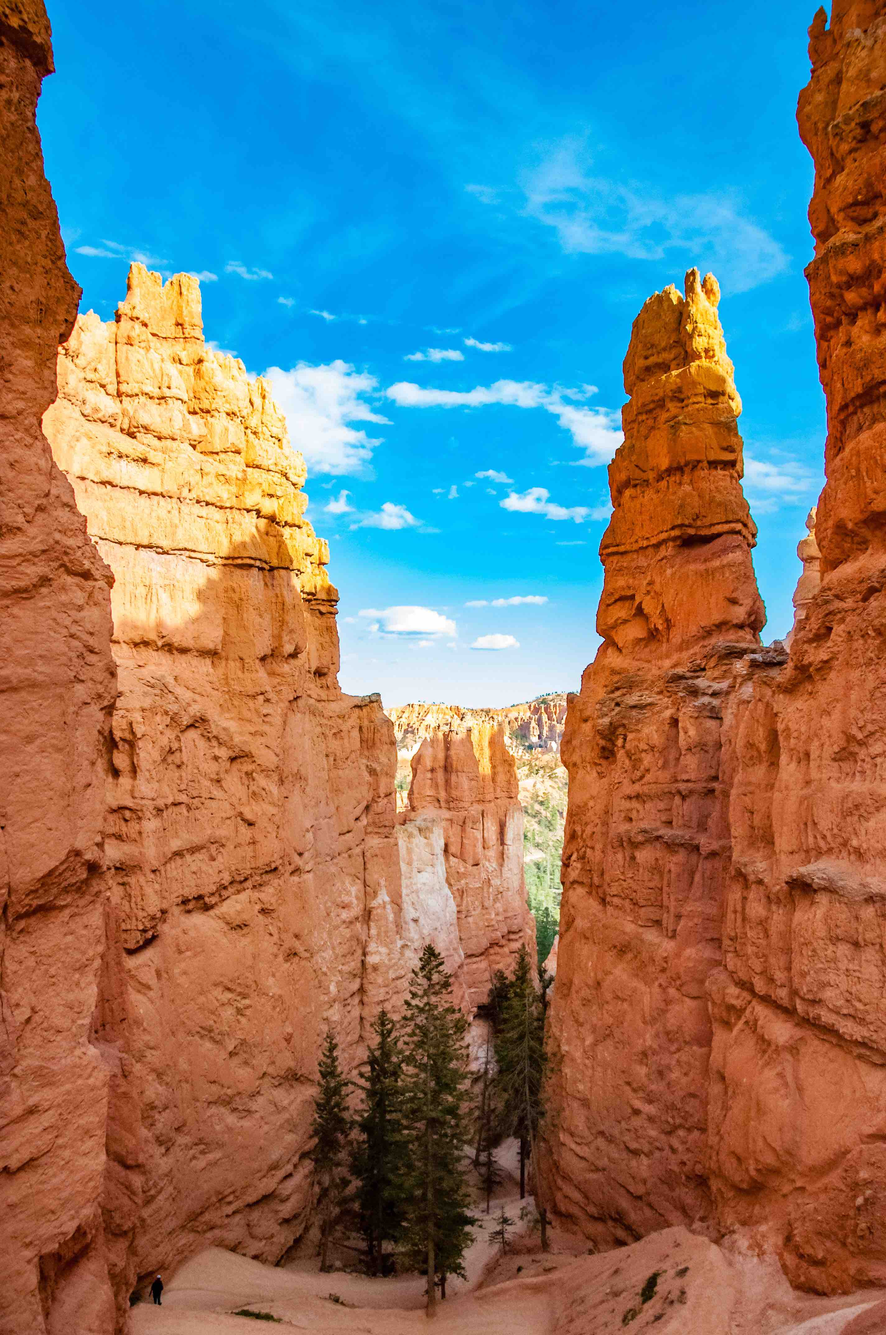
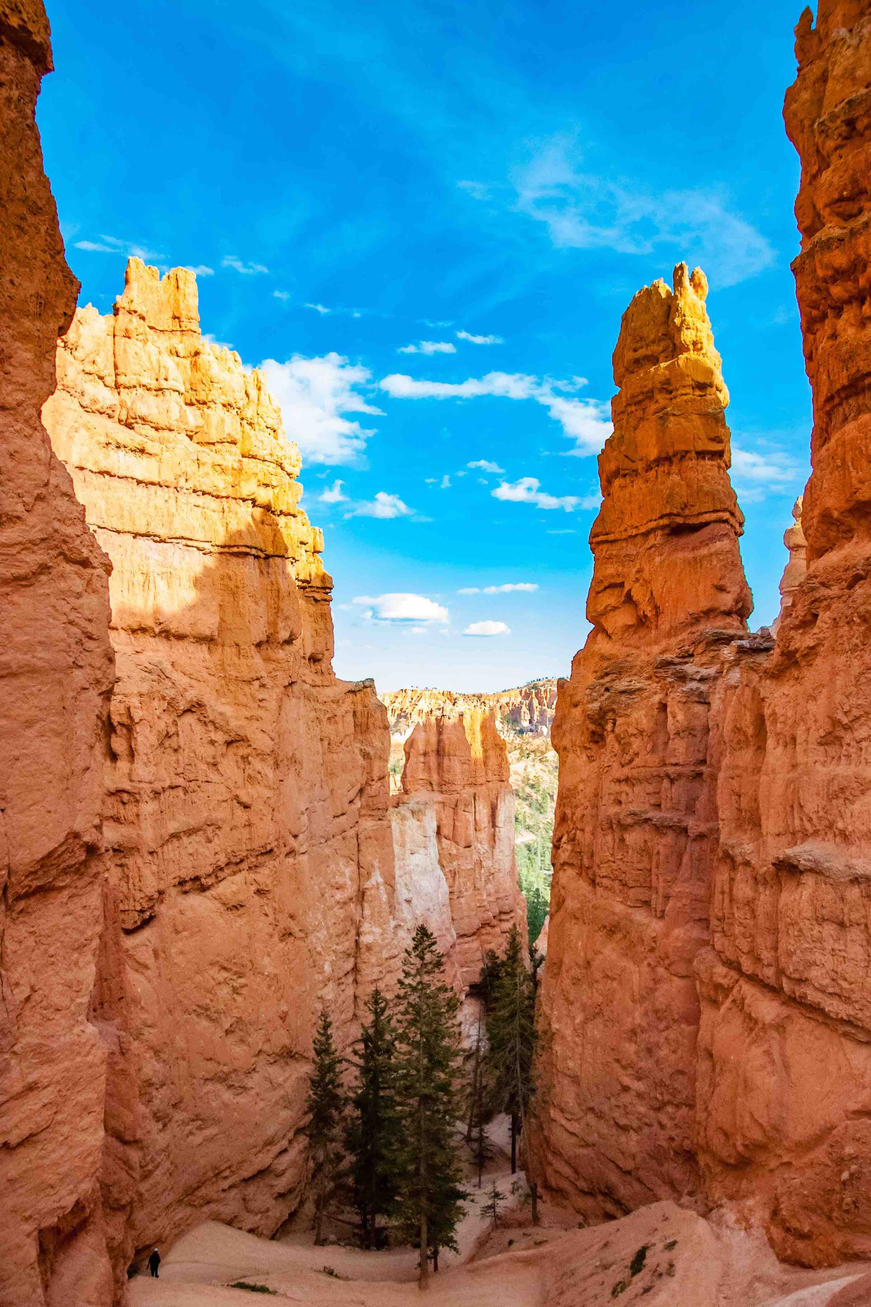
resized bottom images to equalsize

diff --git a/Page1/page1.html b/Page1/page1.html
@@ -11,11 +11,12 @@
    <title>Photo collection</title>
 
    <link rel="stylesheet" href="https://maxcdn.bootstrapcdn.com/bootstrap/3.3.7/css/bootstrap.min.css">
+   <link rel="stylesheet" type="text/css" href="css/style.css">
  </head>
 
  <body>
 
-<div class="page-header">
+<div class="header">
   <h1>Photo Collection</h1>
 </div>
 
@@ -166,25 +167,38 @@
      <img src="img/28-Moose.jpg" alt="Moose" class="img-responsive">
      <p>Moose, Grand Canyon</p>
    </div>
-   <div class="imgh1">
-       <img src="img/6-SF-Bakers-beach-2.jpg" alt="Bakers beach">
-       <img src="img/11-Yosemite-NP.jpg" alt="Yosemite">
-       <img src="img/17-BC.jpg" alt="Bryce Canyon">
+   <div class="row">
+     <div class="col-lg-4 col-md-4 col-sm-12 col-xs-12">
+       <img src="img/6-SF-Bakers-beach-2.jpg" alt="Bakers beach" class="img-responsive">
        <p>Bakers beach, SF</p>
+     </div>
+     <div class="col-lg-4 col-md-4 col-sm-12 col-xs-12">
+       <img src="img/11-Yosemite-NP.jpg" alt="Yosemite" class="img-responsive">
        <p>Yosemite National park</p>
+     </div>
+     <div class="col-lg-4 col-md-4 col-sm-12 col-xs-12">
+       <img src="img/17-BC.jpg" alt="Bryce Canyon" class="img-responsive">
        <p>Bryce Canyon, Utah</p>
+     </div>
    </div>
-   <div class="imgh2">
-       <img src="img/25-UAC.jpg" alt="Upper Antelope Canyon">
-       <img src="img/author.jpg" alt="Author">
-       <img src="img/27-UAC-3.jpg" alt="Upper Antelope Canyon 3">
+   <div class="row">
+     <div class="col-lg-4 col-md-4 col-sm-12 col-xs-12">
+       <img src="img/25-UAC.jpg" alt="Upper Antelope Canyon" class="img-responsive">
        <p>Upper Antelope Canyon</p>
+     </div>
+     <div class="col-lg-4 col-md-4 col-sm-12 col-xs-12">
+       <img src="img/author.jpg" alt="Author" class="img-responsive">
        <p>Route 66, Arizona</p>
+     </div>
+     <div class="col-lg-4 col-md-4 col-sm-12 col-xs-12">
+       <img src="img/27-UAC-3.jpg" alt="Upper Antelope Canyon 3" class="img-responsive">
        <p>Upper Antelope Canyon</p>
+     </div>
    </div>
  </div>
 
-   <div class="footer">Nikola Radanović | 2017
+   <div class="footer">
+     <h6>Nikola Radanović | 2017</h6>
    </div>
 
    <script src="https://ajax.googleapis.com/ajax/libs/jquery/3.2.0/jquery.min.js"></script>
